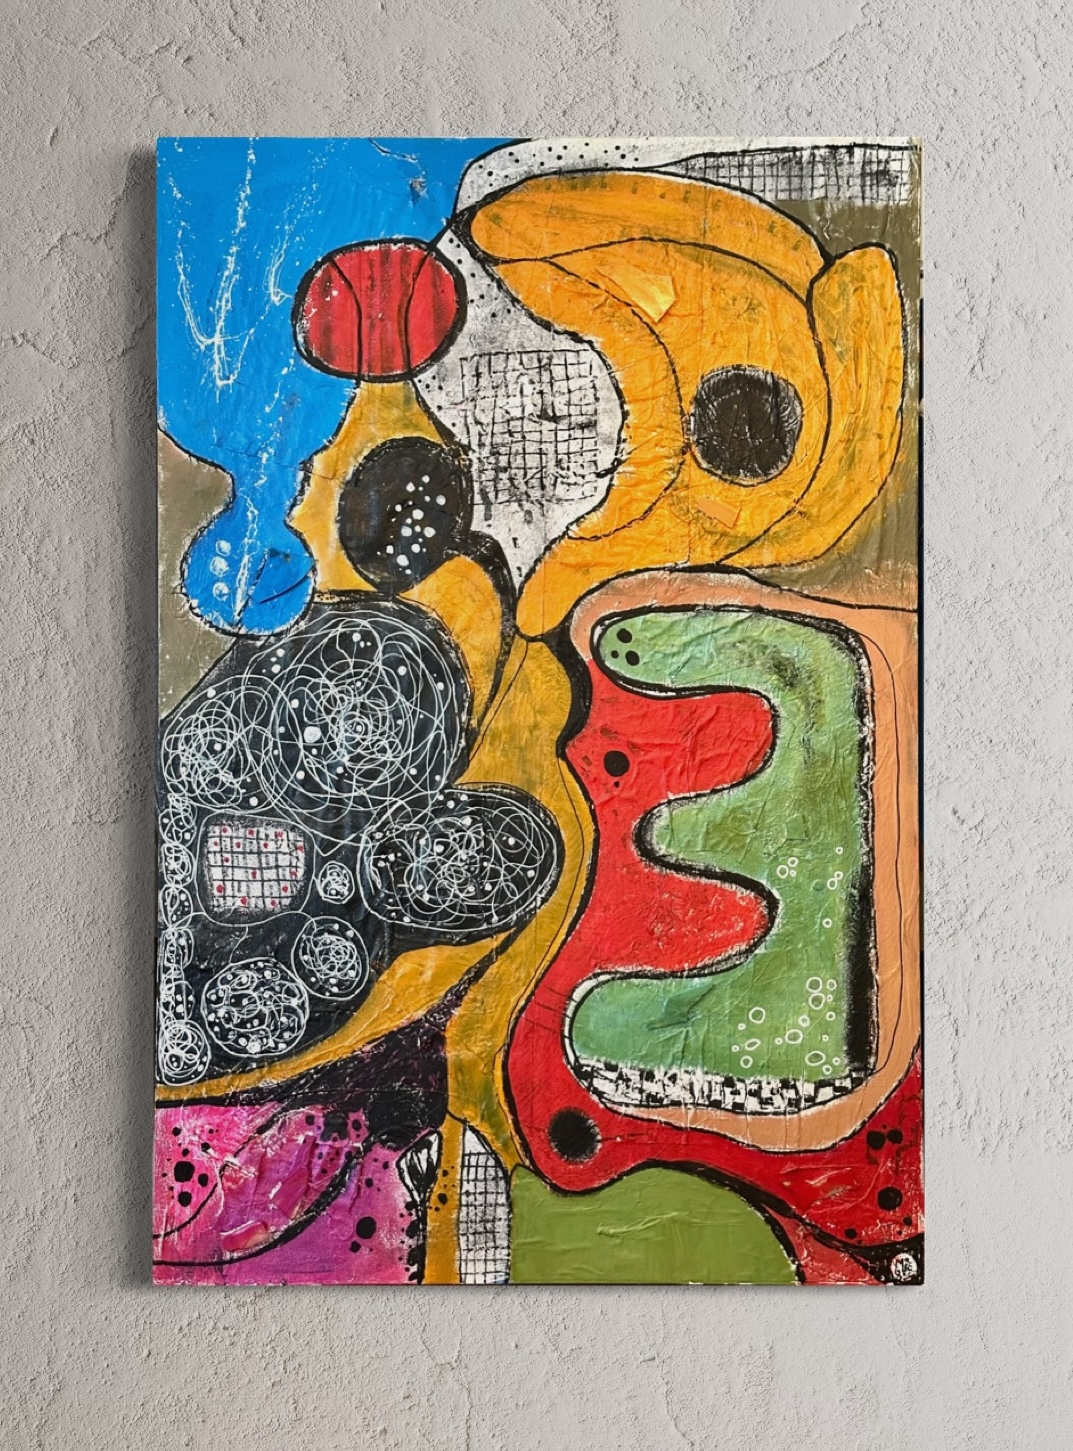
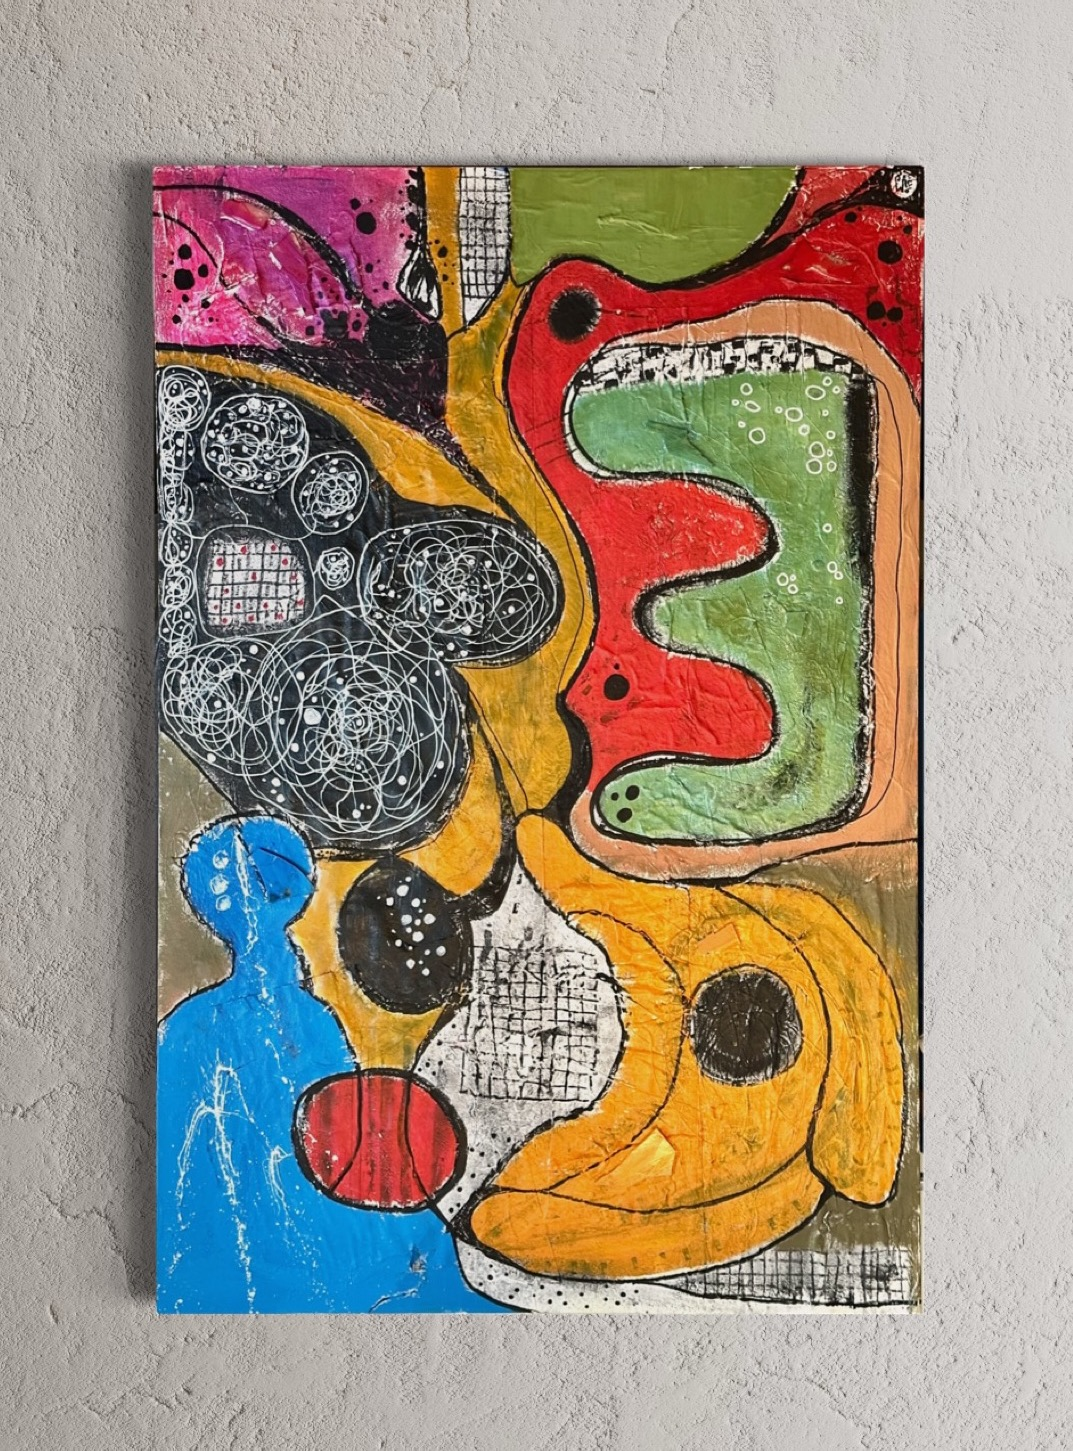
feat: secondary product images, dimensions, footer copy, NFT subtitle
- Product page renders an optional secondary image (max-h 80vh, stacked)
- PATHS / STARS get paths_2 / stars_2 secondary images
- Product image capped at 80vh so tall works (e.g. STARS) fit in one viewport
- Added dimensions: SOURCE II (150x100), VOID 0/1/2/4 (120x90)
- Flipped SOURCE II image vertically (corrects orientation)
- POINT III no longer marked sold
- Projects: subtitle for NFTs/AI card describing the gamified-museum offer
- Footer: "FOLLOW US" -> "FOLLOW TO KNOW WHAT'S NEW"; doubled column gap to 64px

diff --git a/src/utils/productData.ts b/src/utils/productData.ts
@@ -7,6 +7,7 @@ export interface Product {
   description: string;
   dimensions?: string;
   imageUrl: string;
+  secondaryImageUrl?: string;
   slug: string;
   sold?: boolean;
 }
@@ -111,6 +112,7 @@ export const products: Product[] = [
     collection: 'VOID',
     price: '650,00 €',
     description: 'MIXED TECHNIC',
+    dimensions: '120 x 90 cm',
     // 'The first in the VOID series, exploring the concept of nothingness as a starting point.',
     imageUrl: '/images/void0.webp',
     slug: 'void-0'
@@ -121,6 +123,7 @@ export const products: Product[] = [
     collection: 'VOID',
     price: '650,00 €',
     description: 'MIXED TECHNIC',
+    dimensions: '120 x 90 cm',
     // 'The second piece in the VOID series, examining the emergence of form from emptiness.',
     imageUrl: '/images/void1.webp',
     slug: 'void-1'
@@ -131,6 +134,7 @@ export const products: Product[] = [
     collection: 'VOID',
     price: '650,00 €',
     description: 'MIXED TECHNIC',
+    dimensions: '120 x 90 cm',
     // 'Continuing the VOID series, this piece explores the duality between presence and absence.',
     imageUrl: '/images/void2.webp',
     slug: 'void-2'
@@ -141,6 +145,7 @@ export const products: Product[] = [
     collection: 'VOID',
     price: '650,00 €',
     description: 'MIXED TECHNIC',
+    dimensions: '120 x 90 cm',
     // 'The fourth installment in the VOID series, delving deeper into the concept of negative space.',
     imageUrl: '/images/void4.webp',
     slug: 'void-4',
@@ -276,8 +281,7 @@ export const products: Product[] = [
     description: 'MIXED TECHNIC',
     // 'The first in the POINTS series, exploring minimalism and focused attention.',
     imageUrl: '/images/point4.webp',
-    slug: 'point-1',
-    sold: true
+    slug: 'point-1'
   },
   {
     id: 'point-2',
@@ -353,6 +357,7 @@ export const products: Product[] = [
     description: 'MIXED TECHNIC',
     dimensions: '160 x 90 cm',
     imageUrl: '/images/paths.webp',
+    secondaryImageUrl: '/images/paths_2.webp',
     slug: 'paths'
   },
   {
@@ -363,6 +368,7 @@ export const products: Product[] = [
     description: 'MIXED TECHNIC',
     dimensions: '195 x 55 cm',
     imageUrl: '/images/stars.webp',
+    secondaryImageUrl: '/images/stars_2.webp',
     slug: 'stars'
   },
   {
@@ -407,6 +413,7 @@ export const products: Product[] = [
     collection: 'SINGLE WORKS',
     price: '750,00 €',
     description: 'MIXED TECHNIC',
+    dimensions: '150 x 100 cm',
     imageUrl: '/images/source2.webp',
     slug: 'source2'
   },

diff --git a/src/app/product/[slug]/page.tsx b/src/app/product/[slug]/page.tsx
@@ -35,12 +35,21 @@ export default function ProductPage() {
         <div className="max-w-6xl mx-auto">
           <div className="grid grid-cols-1 md:grid-cols-2 gap-12">
             {/* Product Image */}
-            <div className="relative">
-              <img 
-                src={product.imageUrl} 
-                alt={product.name} 
-                className="w-full h-auto object-contain"
+            <div className="relative space-y-6">
+              <img
+                src={product.imageUrl}
+                alt={product.name}
+                className="max-h-[80vh] w-auto mx-auto block object-contain"
+                style={{ maxHeight: '80vh' }}
               />
+              {product.secondaryImageUrl && (
+                <img
+                  src={product.secondaryImageUrl}
+                  alt={`${product.name} — additional view`}
+                  className="max-h-[80vh] w-auto mx-auto block object-contain"
+                  style={{ maxHeight: '80vh' }}
+                />
+              )}
             </div>
             
             {/* Product Info */}

diff --git a/src/components/Layout/Footer.tsx b/src/components/Layout/Footer.tsx
@@ -8,7 +8,7 @@ const Footer = () => {
   return (
     <footer className="relative py-8 px-6 bg-white text-black">
       <div className="max-w-7xl mx-auto relative z-10">
-        <div className="grid grid-cols-1 md:grid-cols-2 gap-8">
+        <div className="grid grid-cols-1 md:grid-cols-2" style={{ gap: '64px' }}>
           <div>
             <div className="mb-4">
               <div className="mb-2 flex items-center justify-between">
@@ -46,7 +46,7 @@ const Footer = () => {
           </div>
 
           <div>
-            <h3 className="text-lg font-semibold uppercase mb-4">FOLLOW US</h3>
+            <h3 className="text-lg font-semibold uppercase mb-4">FOLLOW TO KNOW WHAT&apos;S NEW</h3>
             <div className="flex items-center mb-3">
               <a
                 href="https://www.instagram.com/1gato100futuro/"

diff --git a/src/app/projects/page.tsx b/src/app/projects/page.tsx
@@ -15,6 +15,7 @@ export default function ProjectsPage() {
     {
       id: 1,
       title: "NFTs & DIGITAL ART LEVERAGED BY AI",
+      subtitle: "Reach out to have your own interactive gamified museum mobile App to display Digital Art and NFTs",
       url: "https://influc.my.canva.site/mfg",
     },
     {
